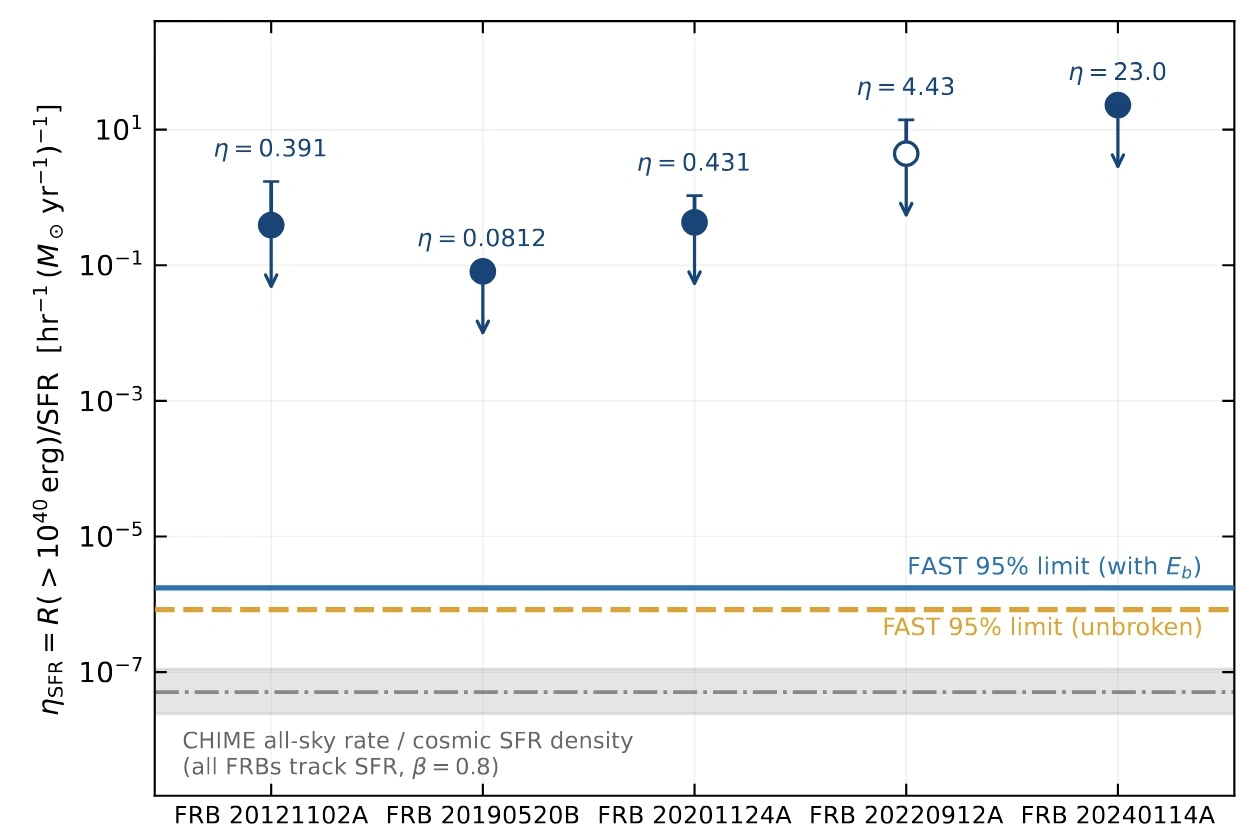
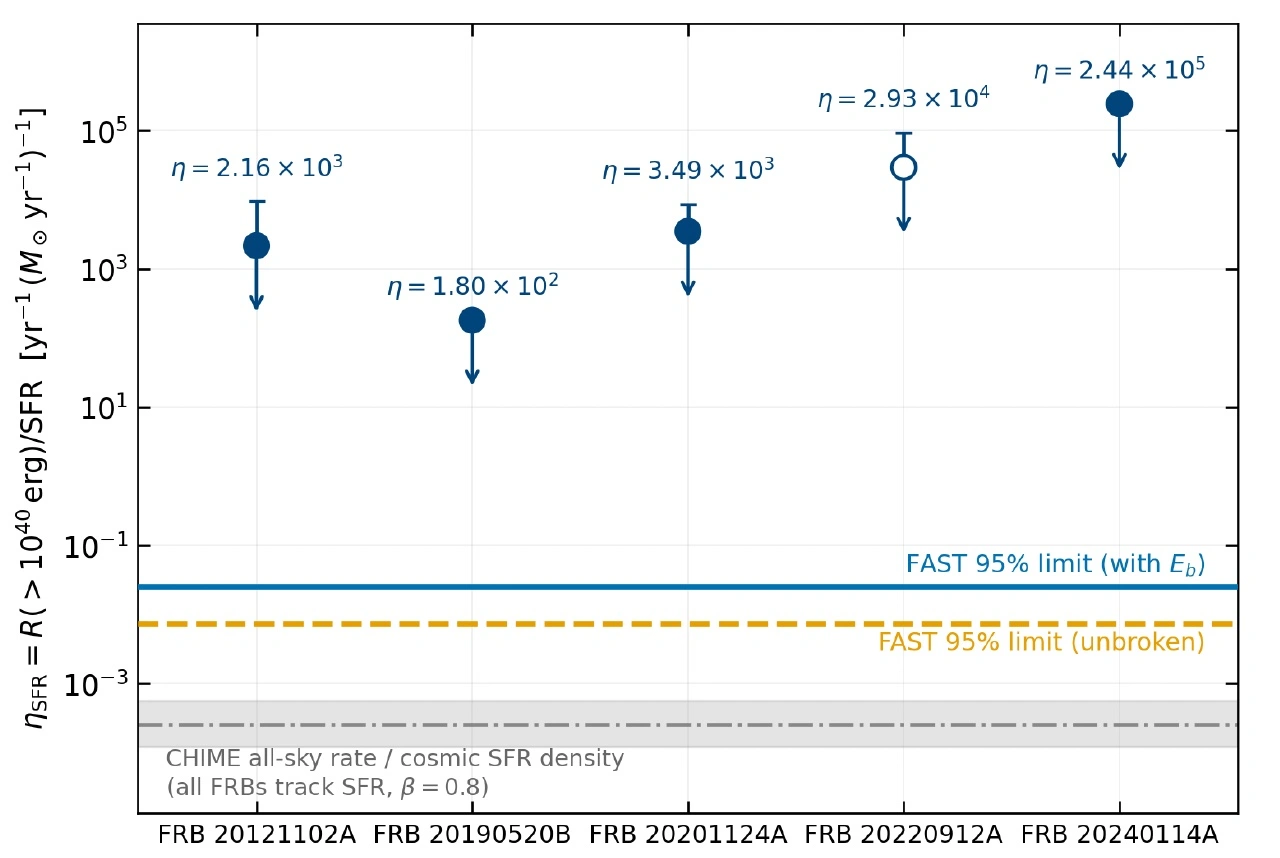
Update20260829

diff --git a/research.html b/research.html
@@ -214,30 +214,6 @@
                         </div>
                     </div>
                 </div>
-
-                <div class="content-item">
-                    <div class="item-number">05</div>
-                    <div class="item-image">
-                        <img loading="lazy" decoding="async" src="images/RESEARCH/radar.webp" alt="Radar" class="research-image" width="1536" height="1024">
-                    </div>
-                    <div class="item-content">
-                        <h3 class="item-title">
-                            <span class="lang-zh">基于被动雷达的空间态势感知</span>
-                            <span class="lang-en">Space Situational Awareness with Passive Radar</span>
-                        </h3>
-                        <p class="item-description">
-                            <span class="lang-zh">利用被动雷达技术进行空间态势感知，研究其在监测和识别空间目标方面的应用。</span>
-                            <span class="lang-en">Using passive radar technology for space situational awareness, investigating its applications in monitoring and identifying space objects.</span>
-                        </p>
-                        <div class="item-tags">
-                            <span class="tag tag-method"><span class="lang-zh">仪器/观测</span><span class="lang-en">Instrument/Observation</span></span>
-                            <span class="tag tag-band"><span class="lang-zh">射电</span><span class="lang-en">Radio</span></span>
-                            <span class="tag"><span class="lang-zh">被动雷达</span><span class="lang-en">Passive Radar</span></span>
-                            <span class="tag"><span class="lang-zh">空间态势感知</span><span class="lang-en">Space Situational Awareness</span></span>
-                            <span class="tag"><span class="lang-zh">空间目标</span><span class="lang-en">Space Objects</span></span>
-                        </div>
-                    </div>
-                </div>
             </section>
 
             <section class="research-section" id="finished">
@@ -298,6 +274,24 @@
                             <span class="tag"><span class="lang-zh">快速射电暴</span><span class="lang-en">FRB</span></span>
                             <span class="tag"><span class="lang-zh">持续射电源</span><span class="lang-en">PRS</span></span>
                             <span class="tag"><span class="lang-zh">Ⅰ型超亮超新星</span><span class="lang-en">SLSNe-Ⅰ</span></span>
+                        </div>
+                    </div>
+                </div>
+
+                <div class="content-item finished-item finished-item-portrait finished-item-no-description">
+                    <div class="item-number">P3</div>
+                    <div class="item-image">
+                        <img loading="lazy" decoding="async" src="images/RESEARCH/p3.webp" alt="Jingdong 120-m Radio Telescope neutral hydrogen research" class="research-image" width="882" height="1136">
+                    </div>
+                    <div class="item-content">
+                        <h3 class="item-title">
+                            <span class="lang-zh">景东 120 米射电望远镜：银河系及近邻星系的中性氢研究</span>
+                            <span class="lang-en">Jingdong 120-m Radio Telescope: Neutral Hydrogen Studies of the Milky Way and Nearby Galaxies</span>
+                        </h3>
+                        <div class="item-tags">
+                            <span class="tag"><span class="lang-zh">中性氢</span><span class="lang-en">Neutral Hydrogen</span></span>
+                            <span class="tag"><span class="lang-zh">射电望远镜</span><span class="lang-en">Radio Telescope</span></span>
+                            <span class="tag"><span class="lang-zh">白皮书</span><span class="lang-en">White Paper</span></span>
                         </div>
                     </div>
                 </div>

diff --git a/motion.html b/motion.html
@@ -146,16 +146,36 @@
                                     <span class="lang-en">Upcoming Races</span>
                                 </h4>
                                 <ul class="event-list event-list-compact">
-                                    <!-- <li>
+                                    <li>
                                         <strong>
-                                            <span class="lang-zh">2026.6.27 </span>
-                                            <span class="lang-en">2026.6.27 </span>
+                                            <span class="lang-zh">2026.9.5 - 2026.9.6 </span>
+                                            <span class="lang-en">2026.9.5 - 2026.9.6 </span>
                                         </strong>
                                         <span>
-                                            <span class="lang-zh">“我要上市运”丰台区专项训练2</span>
-                                            <span class="lang-en">"I Want to Go to the Games" Fengtai District Special Training 2</span>
+                                            <span class="lang-zh">北京市运动会无线电测向</span>
+                                            <span class="lang-en">Beijing Games Radio Direction Finding</span>
                                         </span>
-                                    </li> -->
+                                    </li>
+                                    <li>
+                                        <strong>
+                                            <span class="lang-zh">2026.9.17 - 2026.9.23 </span>
+                                            <span class="lang-en">2026.9.17 - 2026.9.23 </span>
+                                        </strong>
+                                        <span>
+                                            <span class="lang-zh">2026年全国定向锦标赛</span>
+                                            <span class="lang-en">National Orienteering Championship 2026</span>
+                                        </span>
+                                    </li>
+                                    <li>
+                                        <strong>
+                                            <span class="lang-zh">2026.9.24 - 2026.9.27 </span>
+                                            <span class="lang-en">2026.9.24 - 2026.9.27 </span>
+                                        </strong>
+                                        <span>
+                                            <span class="lang-zh">北京市运动会定向越野</span>
+                                            <span class="lang-en">Beijing Games Orienteering</span>
+                                        </span>
+                                    </li>
                                 </ul>
                             </section>
                         </div>
@@ -291,7 +311,7 @@
                 </div>
                 <div class="track-summary-grid" aria-label="Running summary">
                     <div class="track-summary-card">
-                        <strong>1658</strong>
+                        <strong>1600+</strong>
                         <span>
                             <span class="lang-zh">总跑步距离 / km</span>
                             <span class="lang-en">Total Running Distance / km</span>

diff --git a/life.html b/life.html
@@ -253,10 +253,6 @@
                             </h4>
                             <ul class="media-log-list" data-media-log="books">
                                 <li>
-                                    <span class="lang-zh">《社会学的意蕴》</span>
-                                    <span class="lang-en">The Sociological Imagination</span>
-                                </li>
-                                <li>
                                     <span class="lang-zh">《狂飙》</span>
                                     <span class="lang-en">The Knockout</span>
                                 </li>
@@ -264,14 +260,18 @@
                                     <span class="lang-zh">《我对你说》</span>
                                     <span class="lang-en">Wo Dui Ni Shuo </span>
                                 </li>
-                                <li data-counted="false">
+                                <li>
+                                    <span class="lang-zh">《哈萨比斯：谷歌AI之脑》</span>
+                                    <span class="lang-en">The infinity machine</span>
+                                </li>
+                                <!-- <li data-counted="false">
                                     <span class="lang-zh">《The infinity machine》</span>
                                     <span class="lang-en">The infinity machine</span>
                                     <span class="media-log-status">
                                         <span class="lang-zh">阅读中</span>
                                         <span class="lang-en">Reading</span>
                                     </span>
-                                </li>
+                                </li> -->
                             </ul>
                         </section>
 
@@ -416,6 +416,10 @@
                     <p class="item-description motorcycle-license-note">
                         <span class="lang-zh">Log1：于 2026 年 6 月 28 日开始驾驶本田裂行 RX125 SmartKey。</span>
                         <span class="lang-en">Log1: Began riding the Honda RX125 SmartKey on June 28, 2026.</span>
+                    </p>
+                    <p class="item-description motorcycle-license-note">
+                        <span class="lang-zh">Log2：于 2026 年 8 月 31 日开始驾驶张雪机车 500RR。</span>
+                        <span class="lang-en">Log2: Began riding the ZXMOTO 500RR on August 31, 2026.</span>
                     </p>
                     <div class="item-stats">
                         <div class="mini-stat">

diff --git a/about.html b/about.html
@@ -157,7 +157,7 @@
                     <p><span class="lang-zh">而是为了建立自己的坐标系。</span><span class="lang-en">but to build my own coordinate system.</span></p>
                     <p><span class="lang-zh">我喜欢记录国家、省份和城市，也喜欢记住凌晨机场的广播声、陌生便利店里的热食、偶遇的人，以及那些无法提前规划的故事。</span><span class="lang-en">I like collecting countries, provinces, and cities, but I also remember airport announcements before dawn, hot food in unfamiliar convenience stores, chance encounters, and stories that could never have been planned.</span></p>
                     <p><span class="lang-zh">旅行页被设计成一张不断扩展的地图，而不是一本已经完成的相册。</span><span class="lang-en">The travel page is designed as an expanding map rather than a finished album.</span></p>
-                    <p><span class="lang-zh">如果未来把这张地图真正画完，我希望它更像一张记忆星图。<br>每一个地点都不仅代表抵达。<br>还保存着某段经历、某种情绪，以及那个阶段的自己。</span><span class="lang-en">I hope that one day it will become a star map of memories, where every place preserves not only a destination, but also an experience, an emotion, and a version of myself.</span></p>
+                    <p><span class="lang-zh">如果未来把这张地图真正画完，我希望它更像一张记忆星图。<br>每一个地点都不仅代表抵达，还保存着某段经历、某种情绪，以及那个阶段的自己。</span><span class="lang-en">I hope that one day it will become a star map of memories, where every place preserves not only a destination, but also an experience, an emotion, and a version of myself.</span></p>
 
                     <p class="about-marker"><span class="lang-zh">律动</span><span class="lang-en">Motion</span></p>
                     <p><span class="lang-zh">我认真对待运动。</span><span class="lang-en">I take sports seriously.</span></p>

diff --git a/js/main.js b/js/main.js
@@ -487,6 +487,7 @@
         if (element.classList.contains('animated')) return;
 
         const target = parseInt(element.dataset.target);
+        const suffix = element.dataset.suffix || '';
         const duration = 2000;
         const startTime = Date.now();
         const startValue = 0;
@@ -499,12 +500,12 @@
             const easeOutQuart = 1 - Math.pow(1 - progress, 4);
             const currentValue = Math.floor(startValue + (target - startValue) * easeOutQuart);
 
-            element.textContent = currentValue;
+            element.textContent = currentValue + suffix;
 
             if (progress < 1) {
                 requestAnimationFrame(updateNumber);
             } else {
-                element.textContent = target;
+                element.textContent = target + suffix;
                 element.classList.add('animated');
             }
         }

diff --git a/index.html b/index.html
@@ -183,7 +183,7 @@
                 <div class="content-visual">
                     <div class="stats-grid">
                         <div class="stat-item">
-                            <span class="stat-number" data-target="1658">0</span>
+                            <span class="stat-number" data-target="1600" data-suffix="+">0</span>
                             <span class="stat-label lang-zh">跑步里程（KM）</span>
                             <span class="stat-label lang-en">Distance(KM)</span>
                         </div>

diff --git a/css/pages.css b/css/pages.css
@@ -1854,6 +1854,14 @@ body[data-lang="en"] .research-list.lang-en {
     justify-self: center;
 }
 
+.finished-item-no-description .item-title {
+    margin-bottom: 22px;
+}
+
+.finished-item-no-description .item-content {
+    align-self: center;
+}
+
 .finished-item-wide {
     grid-template-columns: minmax(0, 1fr);
     gap: 30px;
